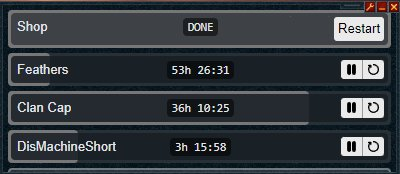
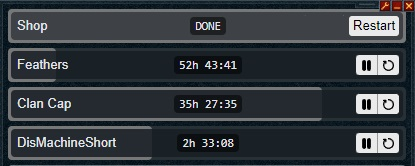
tweaking timer button heights to be consistent

diff --git a/src/lib/Timer.svelte b/src/lib/Timer.svelte
@@ -95,7 +95,7 @@
 			</div>
 			<div class="btn-group">
 				{#if progress >= 1 && !paused}
-					<button class='btn' onclick={onStartTimer}>Restart</button>
+					<button class='btn text' onclick={onStartTimer}>Restart</button>
 				{:else}
 					<button class='btn' onclick={onTogglePause}>{#if paused}<PlayIcon size={13} />{:else}<PauseIcon size={13} />{/if}</button>
 					<button class='btn' onclick={onStartTimer}><RefreshIcon size={13} /></button>
@@ -117,6 +117,7 @@
         z-index: 1;
         display:grid;
         grid-template-columns: 1fr auto 1fr;
+        align-items: center;
         gap: 6px;
         width: 100%; height:100%;
         padding: 4px 4px 4px 6px;
@@ -166,7 +167,8 @@
         display: flex;
         align-items: center;
         justify-content: center;
-        padding:2px 4px;
+        padding:0 4px;
+		height: 20px;
         
         color:#000;
         font-size:13px;
